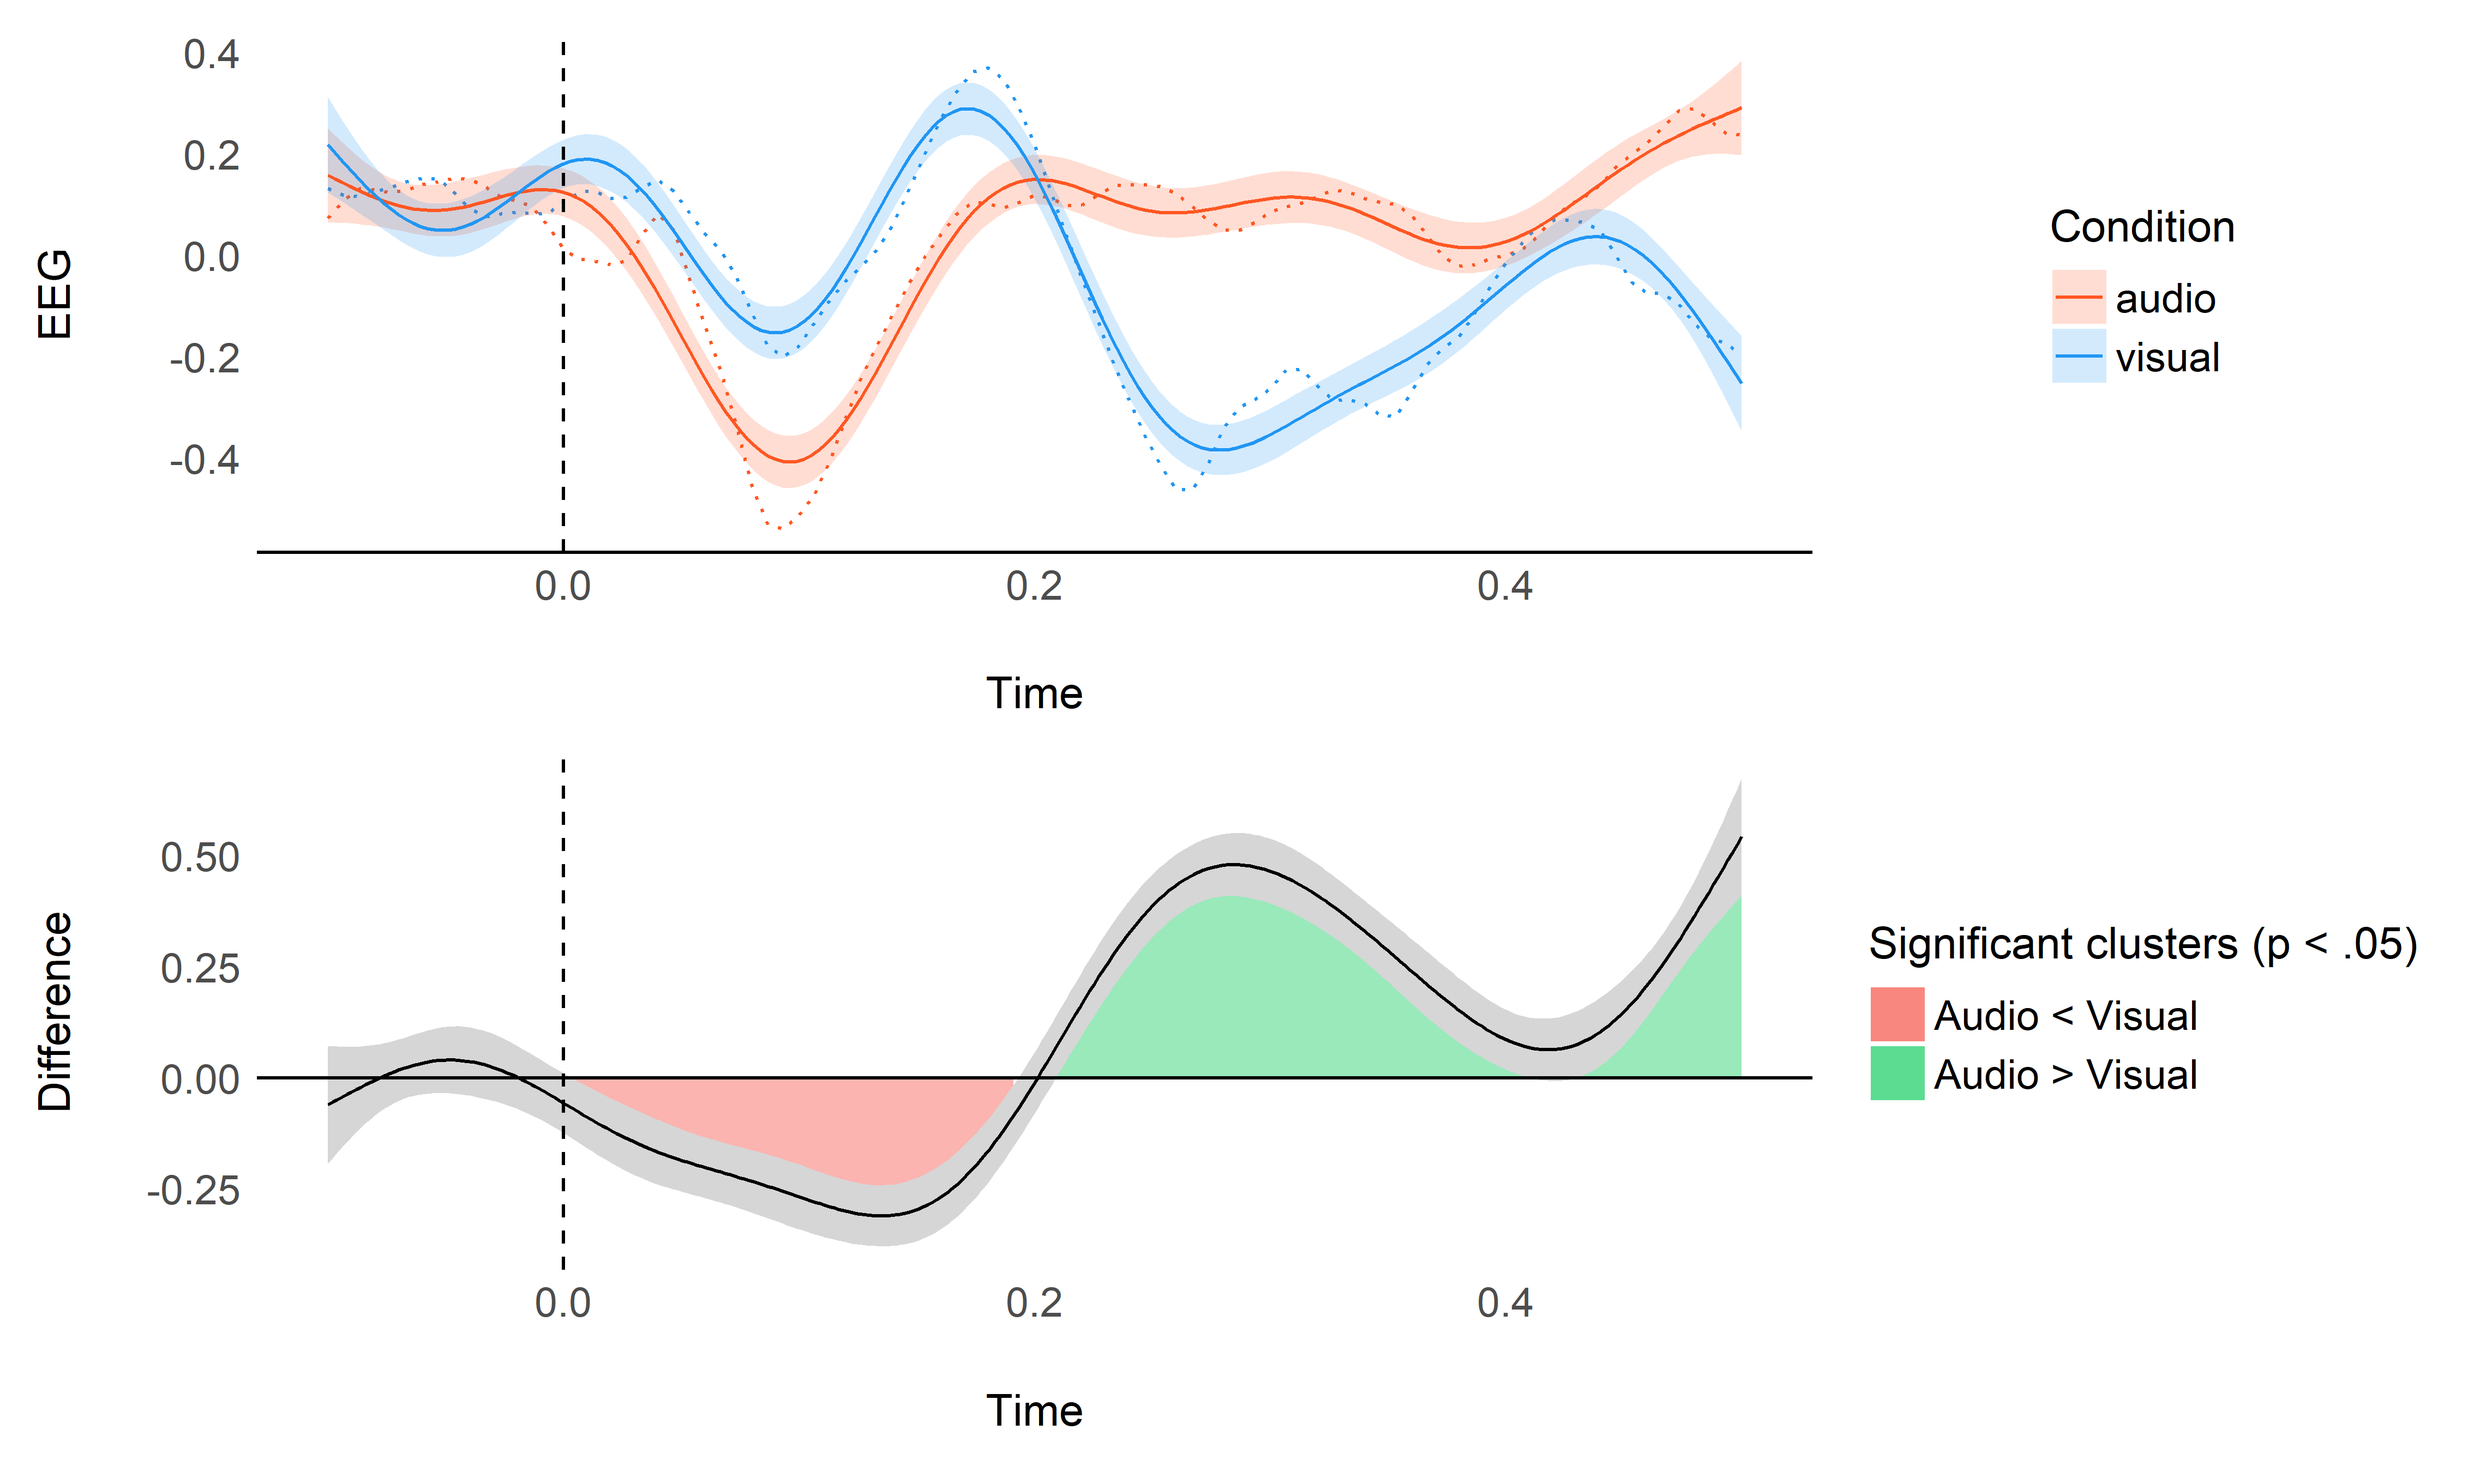
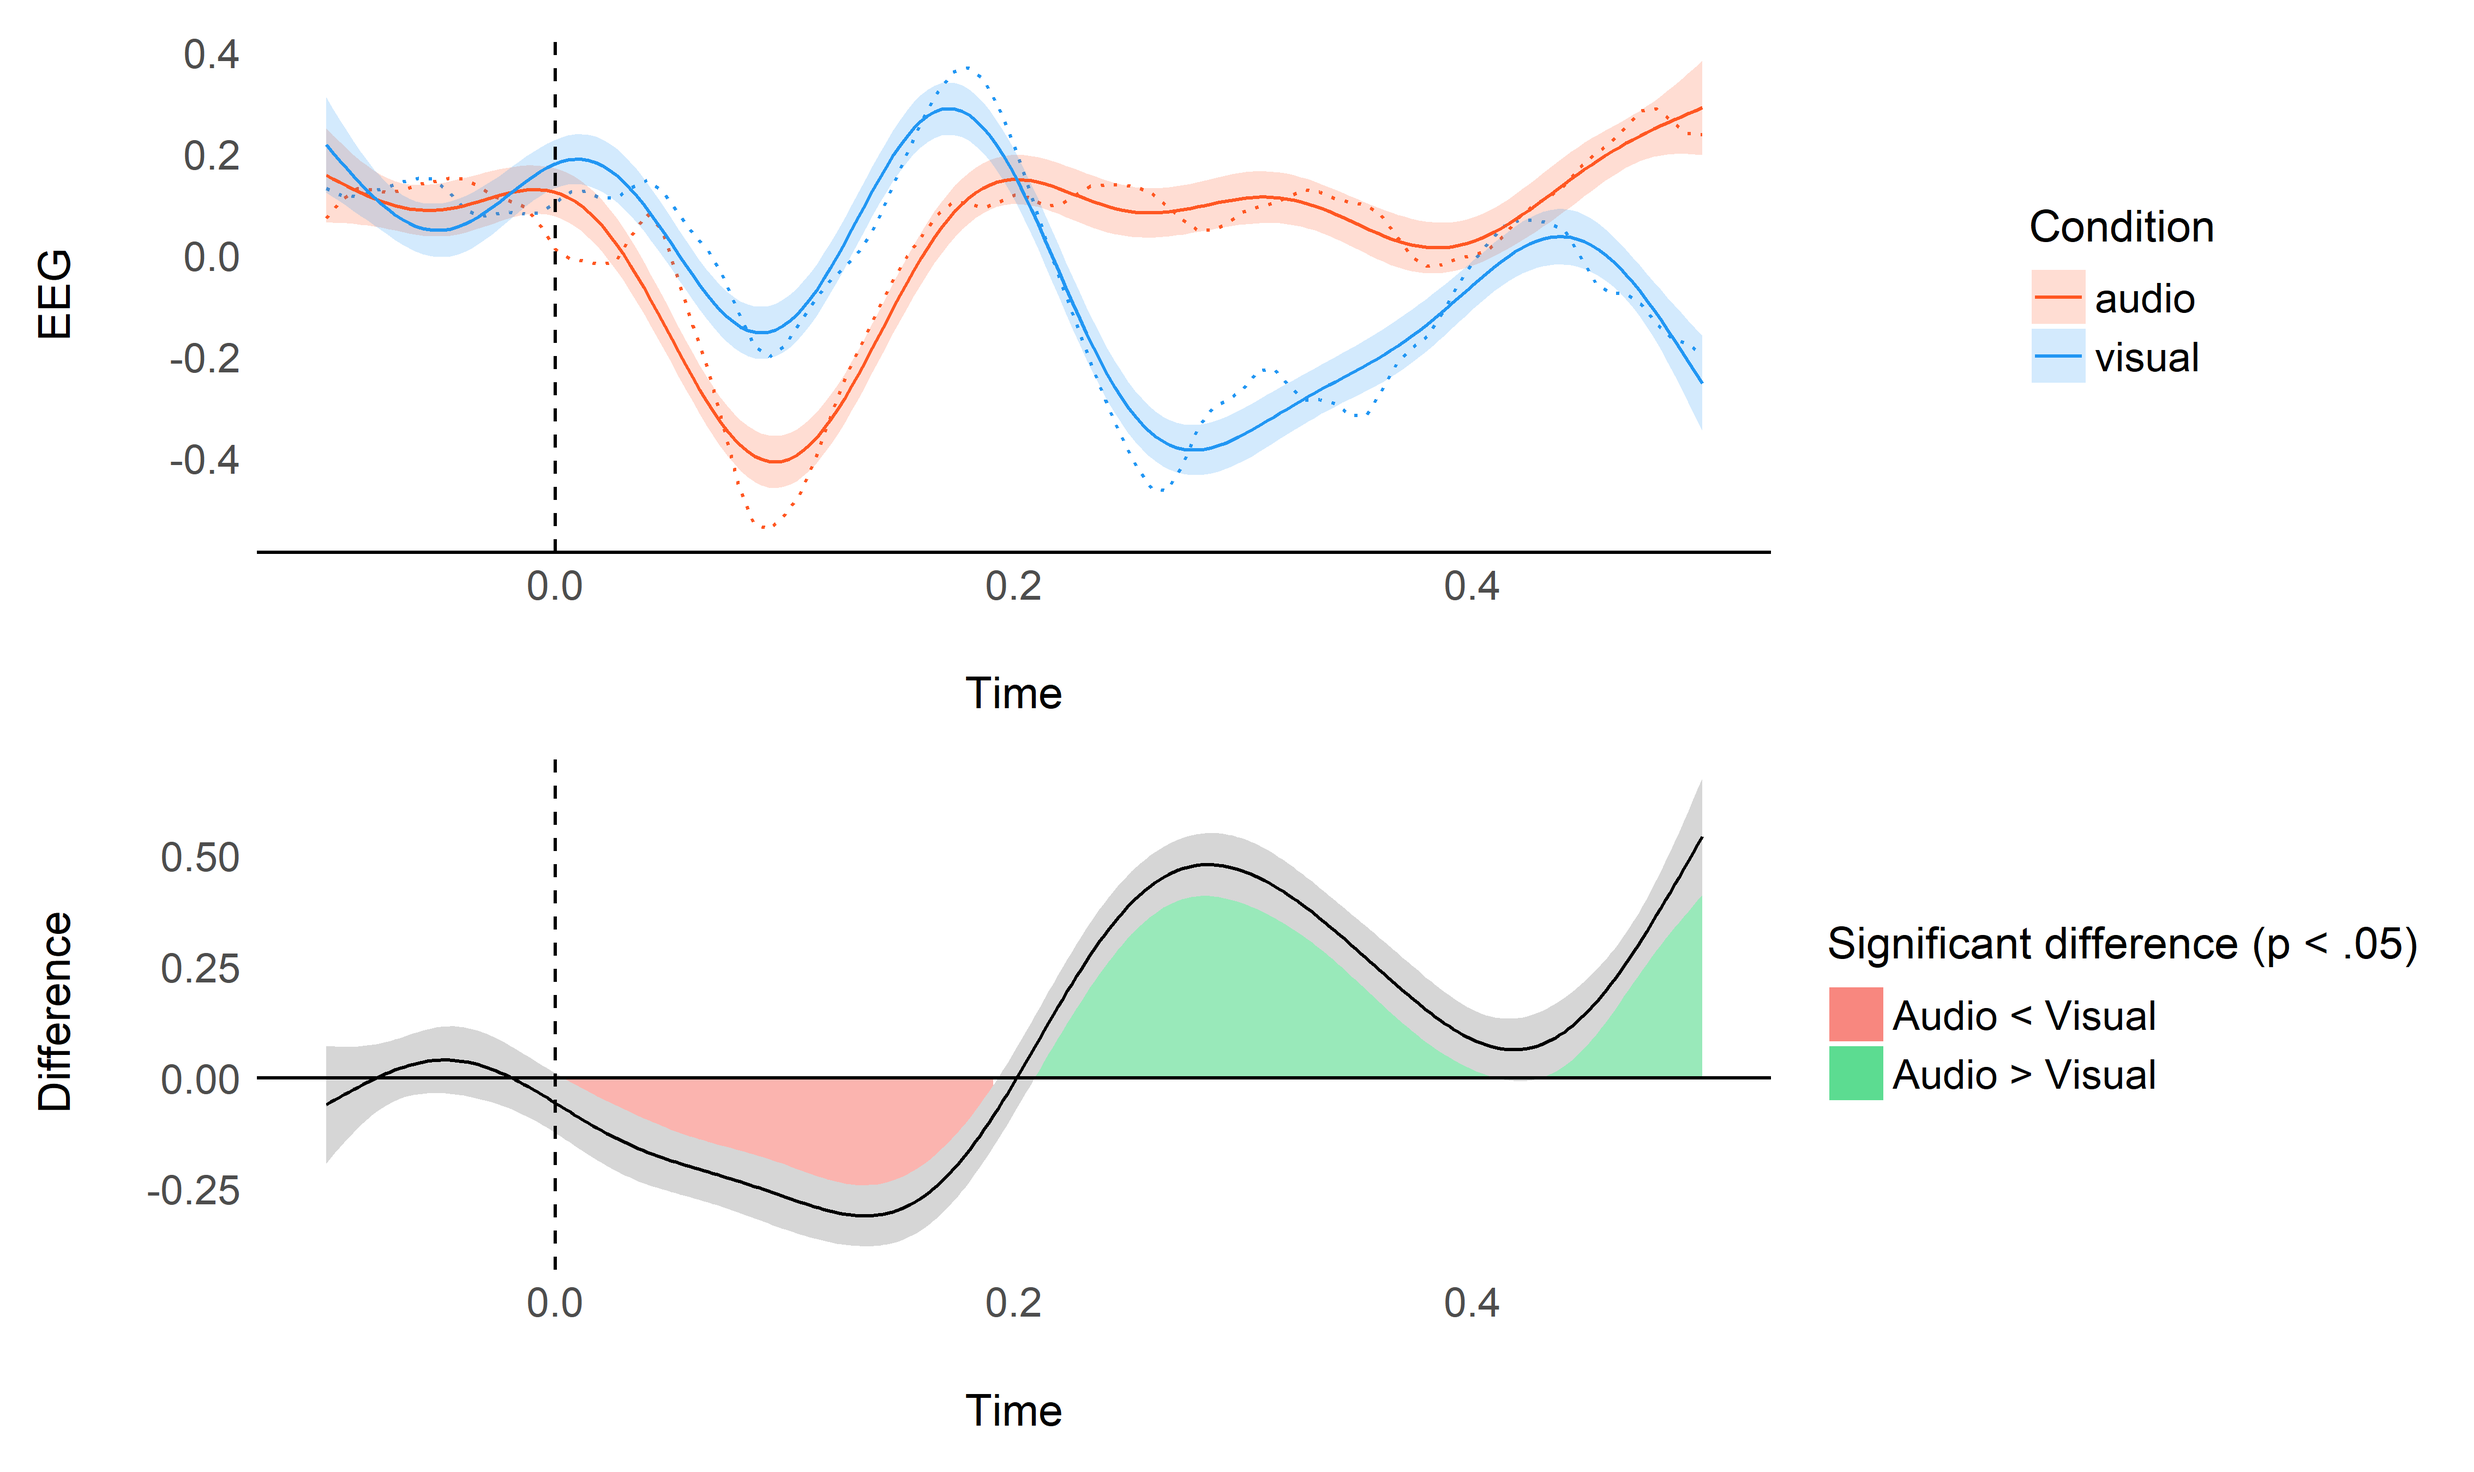
use accross()
thanks @mattansb

diff --git a/studies/erp_gam/README.md b/studies/erp_gam/README.md
@@ -84,27 +84,29 @@ fig, (ax0, ax1, ax2) = plt.subplots(nrows=3, ncols=1, sharex=True)
 
 times = epochs.times
 ax0.axvline(x=0, linestyle="--", color="black")
-## <matplotlib.lines.Line2D object at 0x00000000C25E9100>
+## <matplotlib.lines.Line2D object at 0x00000000C262B0A0>
 ax0.plot(times, np.mean(condition1, axis=0), label="Audio")
-## [<matplotlib.lines.Line2D object at 0x00000000C25E2CD0>]
+## [<matplotlib.lines.Line2D object at 0x00000000C261EFD0>]
 ax0.plot(times, np.mean(condition2, axis=0), label="Visual")
-## [<matplotlib.lines.Line2D object at 0x00000000C25E25E0>]
+## [<matplotlib.lines.Line2D object at 0x00000000C261E7C0>]
 ax0.legend(loc="upper right")
+## <matplotlib.legend.Legend object at 0x00000000C261E3A0>
 ax0.set_ylabel("uV")
 
 # Difference
+## Text(0, 0.5, 'uV')
 ax1.axvline(x=0, linestyle="--", color="black")
-## <matplotlib.lines.Line2D object at 0x00000000C25E2BB0>
+## <matplotlib.lines.Line2D object at 0x00000000C25B8FA0>
 ax1.plot(times, condition1.mean(axis=0) - condition2.mean(axis=0))
-## [<matplotlib.lines.Line2D object at 0x00000000C2629880>]
+## [<matplotlib.lines.Line2D object at 0x00000000C2604580>]
 ax1.axhline(y=0, linestyle="--", color="black")
-## <matplotlib.lines.Line2D object at 0x00000000C2632A90>
+## <matplotlib.lines.Line2D object at 0x00000000C26048E0>
 ax1.set_ylabel("Difference")
 
 # T-values
 ## Text(0, 0.5, 'Difference')
 ax2.axvline(x=0, linestyle="--", color="black")
-## <matplotlib.lines.Line2D object at 0x00000000C25E28E0>
+## <matplotlib.lines.Line2D object at 0x00000000C26044C0>
 h = None
 for i, c in enumerate(clusters):
     c = c[0]
@@ -118,12 +120,12 @@ for i, c in enumerate(clusters):
                     times[c.stop - 1],
                     color=(0.3, 0.3, 0.3),
                     alpha=0.3)
-## <matplotlib.patches.Polygon object at 0x00000000C26297F0>
-## <matplotlib.patches.Polygon object at 0x00000000C1A5CE50>
+## <matplotlib.patches.Polygon object at 0x00000000C25A87F0>
+## <matplotlib.patches.Polygon object at 0x00000000C25A86D0>
 hf = ax2.plot(times, t_vals, 'g')
 if h is not None:
     plt.legend((h, ), ('cluster p-value < 0.05', ))
-## <matplotlib.legend.Legend object at 0x00000000C2629550>
+## <matplotlib.legend.Legend object at 0x00000000C25B8D90>
 plt.xlabel("time (ms)")
 ## Text(0.5, 0, 'time (ms)')
 plt.ylabel("t-values")
@@ -140,14 +142,12 @@ plt.clf()
 library(tidyverse)
 library(easystats)
 library(patchwork)
-library(rstanarm)
-library(brms)
 
 data <- read.csv("data.csv", stringsAsFactors = FALSE) %>% 
   mutate(Condition = str_remove(Condition, "/right"),
          Condition = str_remove(Condition, "/left"),
          Condition = as.factor(Condition),
-         EEG = rowMeans(select(., starts_with("EEG"))))
+         EEG = rowMeans(across(starts_with("EEG"))))
 data[stringr::str_detect(colnames(data), "EEG")] <- standardize(data[stringr::str_detect(colnames(data), "EEG")])
 ```
 
@@ -221,7 +221,7 @@ plot_model <- function(model, data){
     geom_hline(yintercept=0) +
     theme_eeg() +
     theme(axis.line.x = element_blank()) +
-    scale_fill_manual("Significant clusters (p < .05)", 
+    scale_fill_manual("Significant difference (p < .05)", 
                       values=c("Audio > Visual"="#00C853", 
                                "Audio < Visual"="#f44336"))
   p1 / p2
@@ -263,11 +263,9 @@ gam.check(model)
 ## Basis dimension (k) checking results. Low p-value (k-index<1) may
 ## indicate that k is too low, especially if edf is close to k'.
 ## 
-##                           k'  edf k-index p-value  
-## s(Time):Conditionaudio  9.00 8.85    0.98   0.025 *
-## s(Time):Conditionvisual 9.00 8.93    0.98   0.030 *
-## ---
-## Signif. codes:  0 '***' 0.001 '**' 0.01 '*' 0.05 '.' 0.1 ' ' 1
+##                           k'  edf k-index p-value
+## s(Time):Conditionaudio  9.00 8.85    0.99    0.33
+## s(Time):Conditionvisual 9.00 8.93    0.99    0.32
 
 model <- mgcv::gam(EEG ~ Condition + s(Time, by = Condition, k = 0.05 * 600), data=data)
 ```
